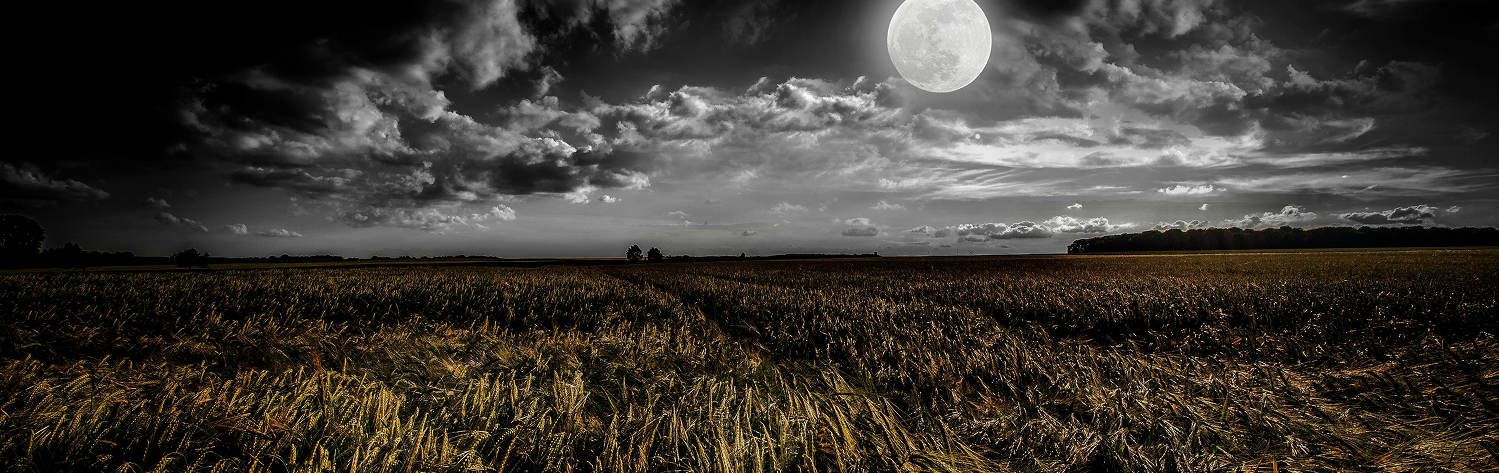
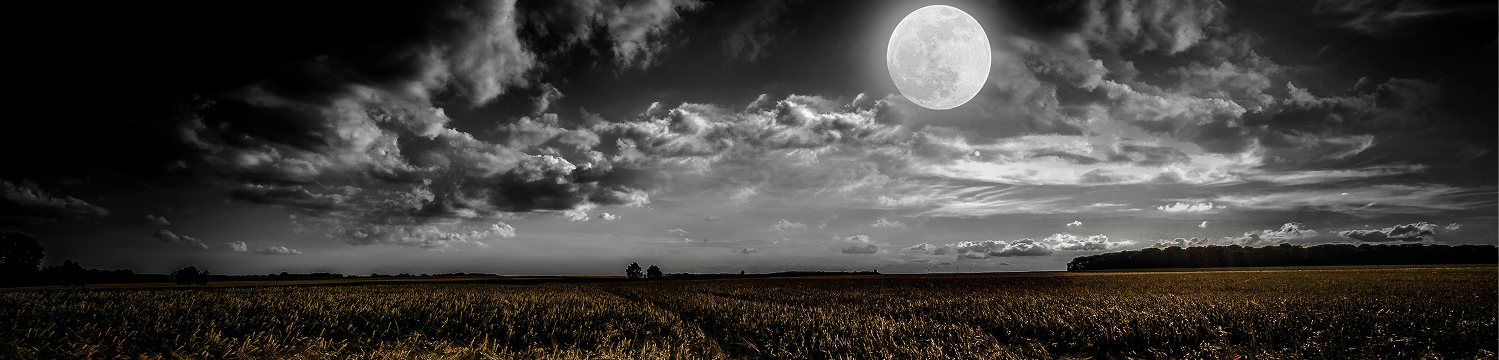
Style changes to contact page

diff --git a/contact-me.html b/contact-me.html
@@ -185,19 +185,21 @@
         <span class="contact-me-impactfultext">Contact Me</span>
       </div>
       <!-- End banner section -->
+      
       <!-- Begin main page content -->
       <div class="sectionheading-container">
         <div class="sectionheading-text">Let’s Work Together!</div>
       </div>
-      
+      <div class="contact-me-page-description-container">
+        <span class="contact-me-page-description-text">
+          Send me a message with your project details and timeline and we can work together to come up with a solution.
+        </span>
+      </div>
+
       <!-- Begin contact form -->
       <div class="contact-me-page-container">
         <div class="contact-me-contact-form-container">
-          <div class="contact-me-page-description-container">
-            <span class="contact-me-page-description-text">
-              Send me a message with your project details and timeline and we can work together to come up with a solution.
-            </span>
-          </div>
+          
           <form id="contactForm">
             <div class="contact-me-contact-form-row-container">
               <label for="name" class="contact-me-label-text">Name</label>

diff --git a/contact-me.css b/contact-me.css
@@ -40,21 +40,22 @@
 .contact-me-page-description-container {
   gap: 10px;
   display: flex;
-  padding: 24px 24px;
+  padding: 24px 24px 0px;
   align-items: center;
   justify-content: center;
+  background-color: rgba(245, 245, 245, 1);
 }
  
 .contact-me-page-description-text {
-  color: rgba(0, 0, 0, 0.550000011920929);
+  color: rgba(0, 0, 0, 0.55);
   height: auto;
   flex-grow: 1;
-  font-size: 24px;
+  font-size: 18px;
   font-style: Medium;
   text-align: left;
   font-family: Inter;
   font-weight: 500;
-  line-height: 145.00000476837158%;
+  line-height: 28px;
   font-stretch: normal;
   text-decoration: none;
 }
@@ -63,7 +64,7 @@
   gap: 24px;
   width: 800px;
   display: flex;
-  padding: 0 24px;
+  padding: 24px 24px;
   align-items: center;
   flex-shrink: 0;
   border-color: rgba(217, 217, 217, 1);
@@ -136,6 +137,6 @@
 } 
 
 .status-message-container {
-  padding-bottom: 20px;
+  padding-bottom: 24px;
 }
 
